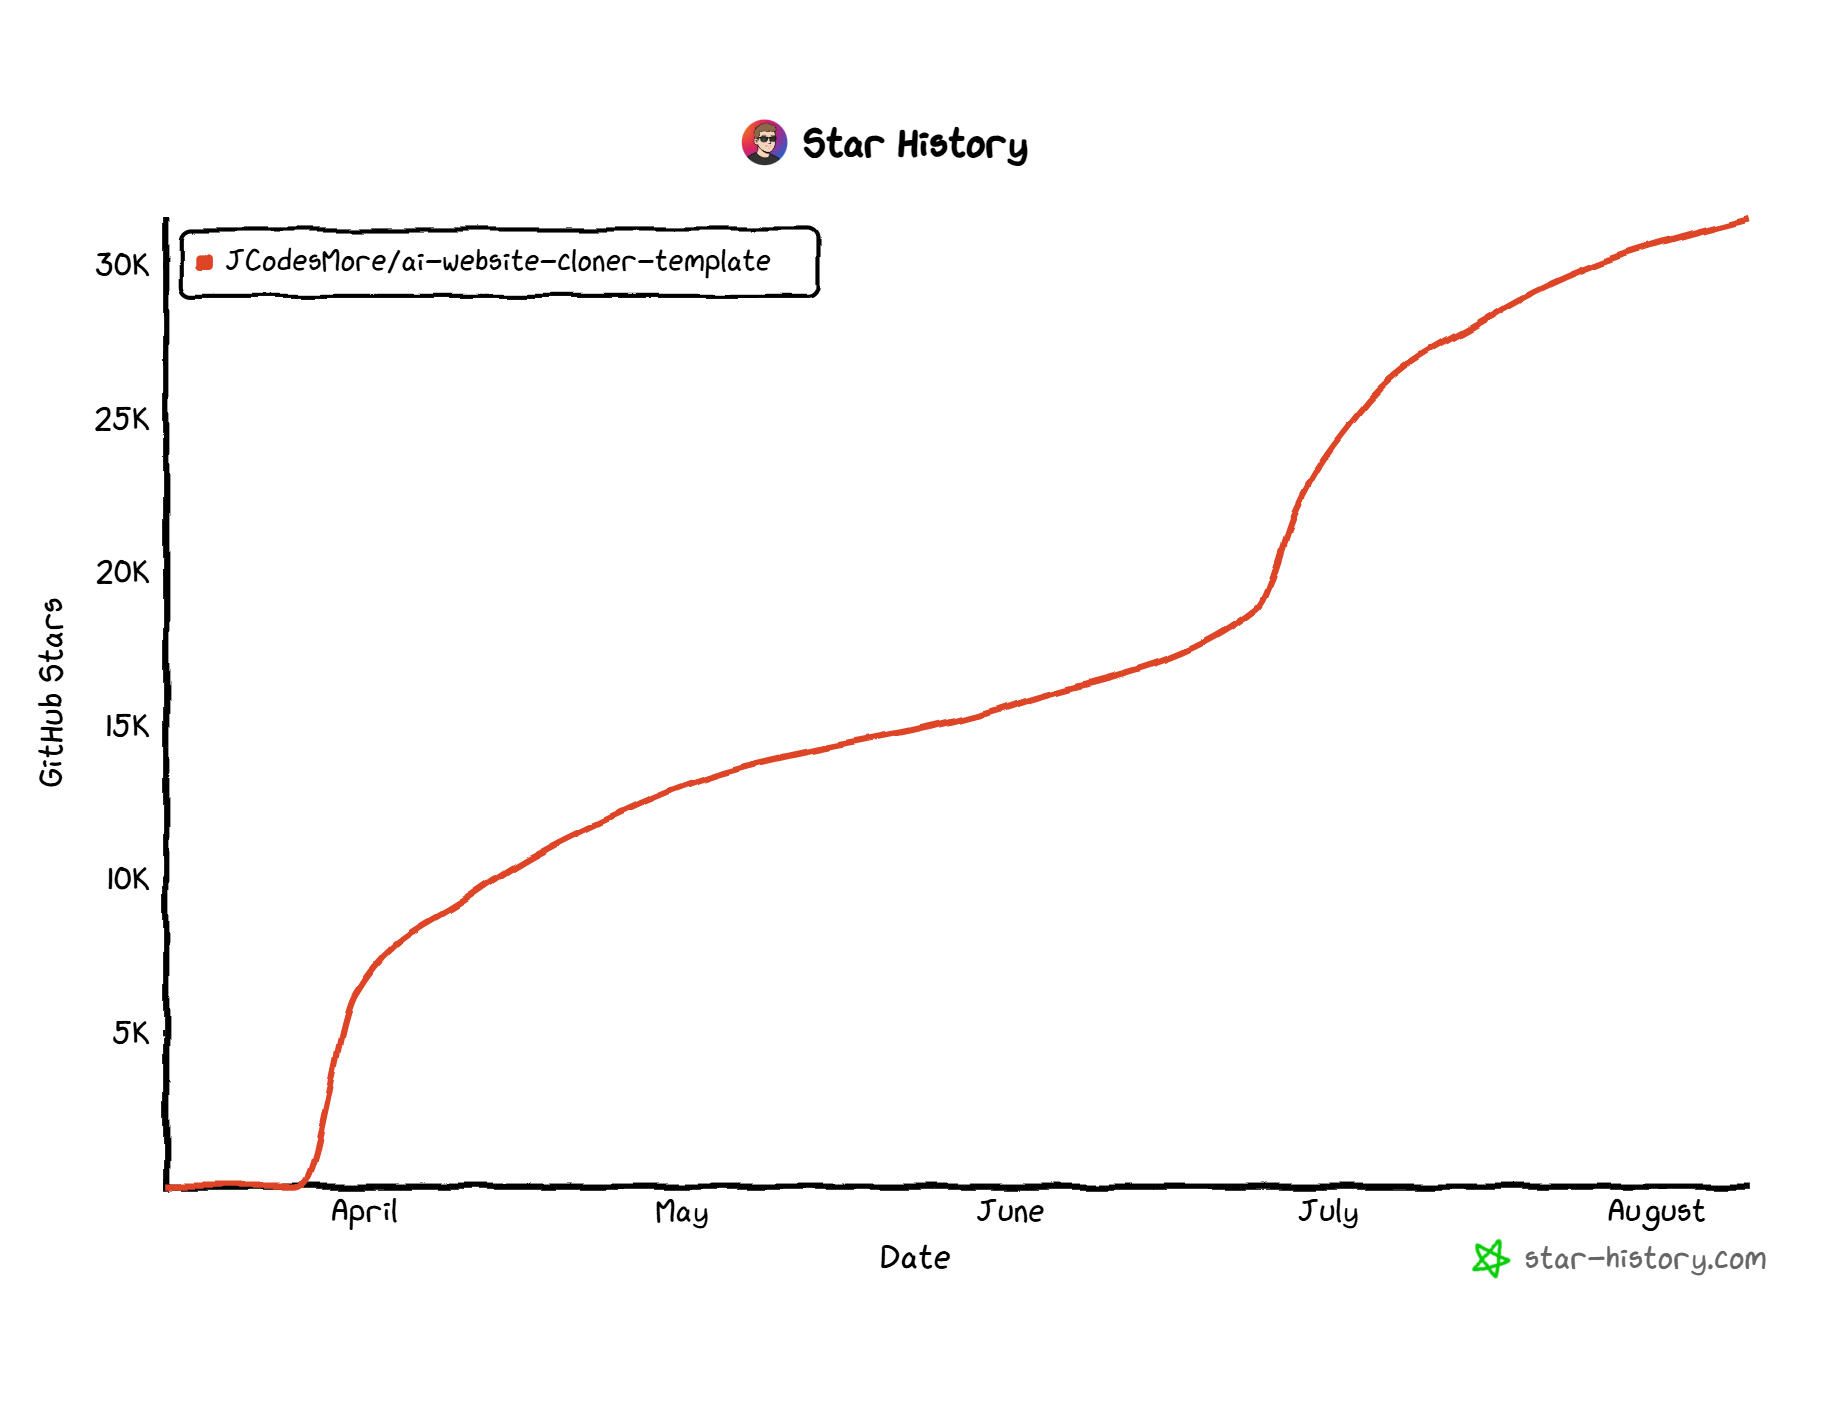
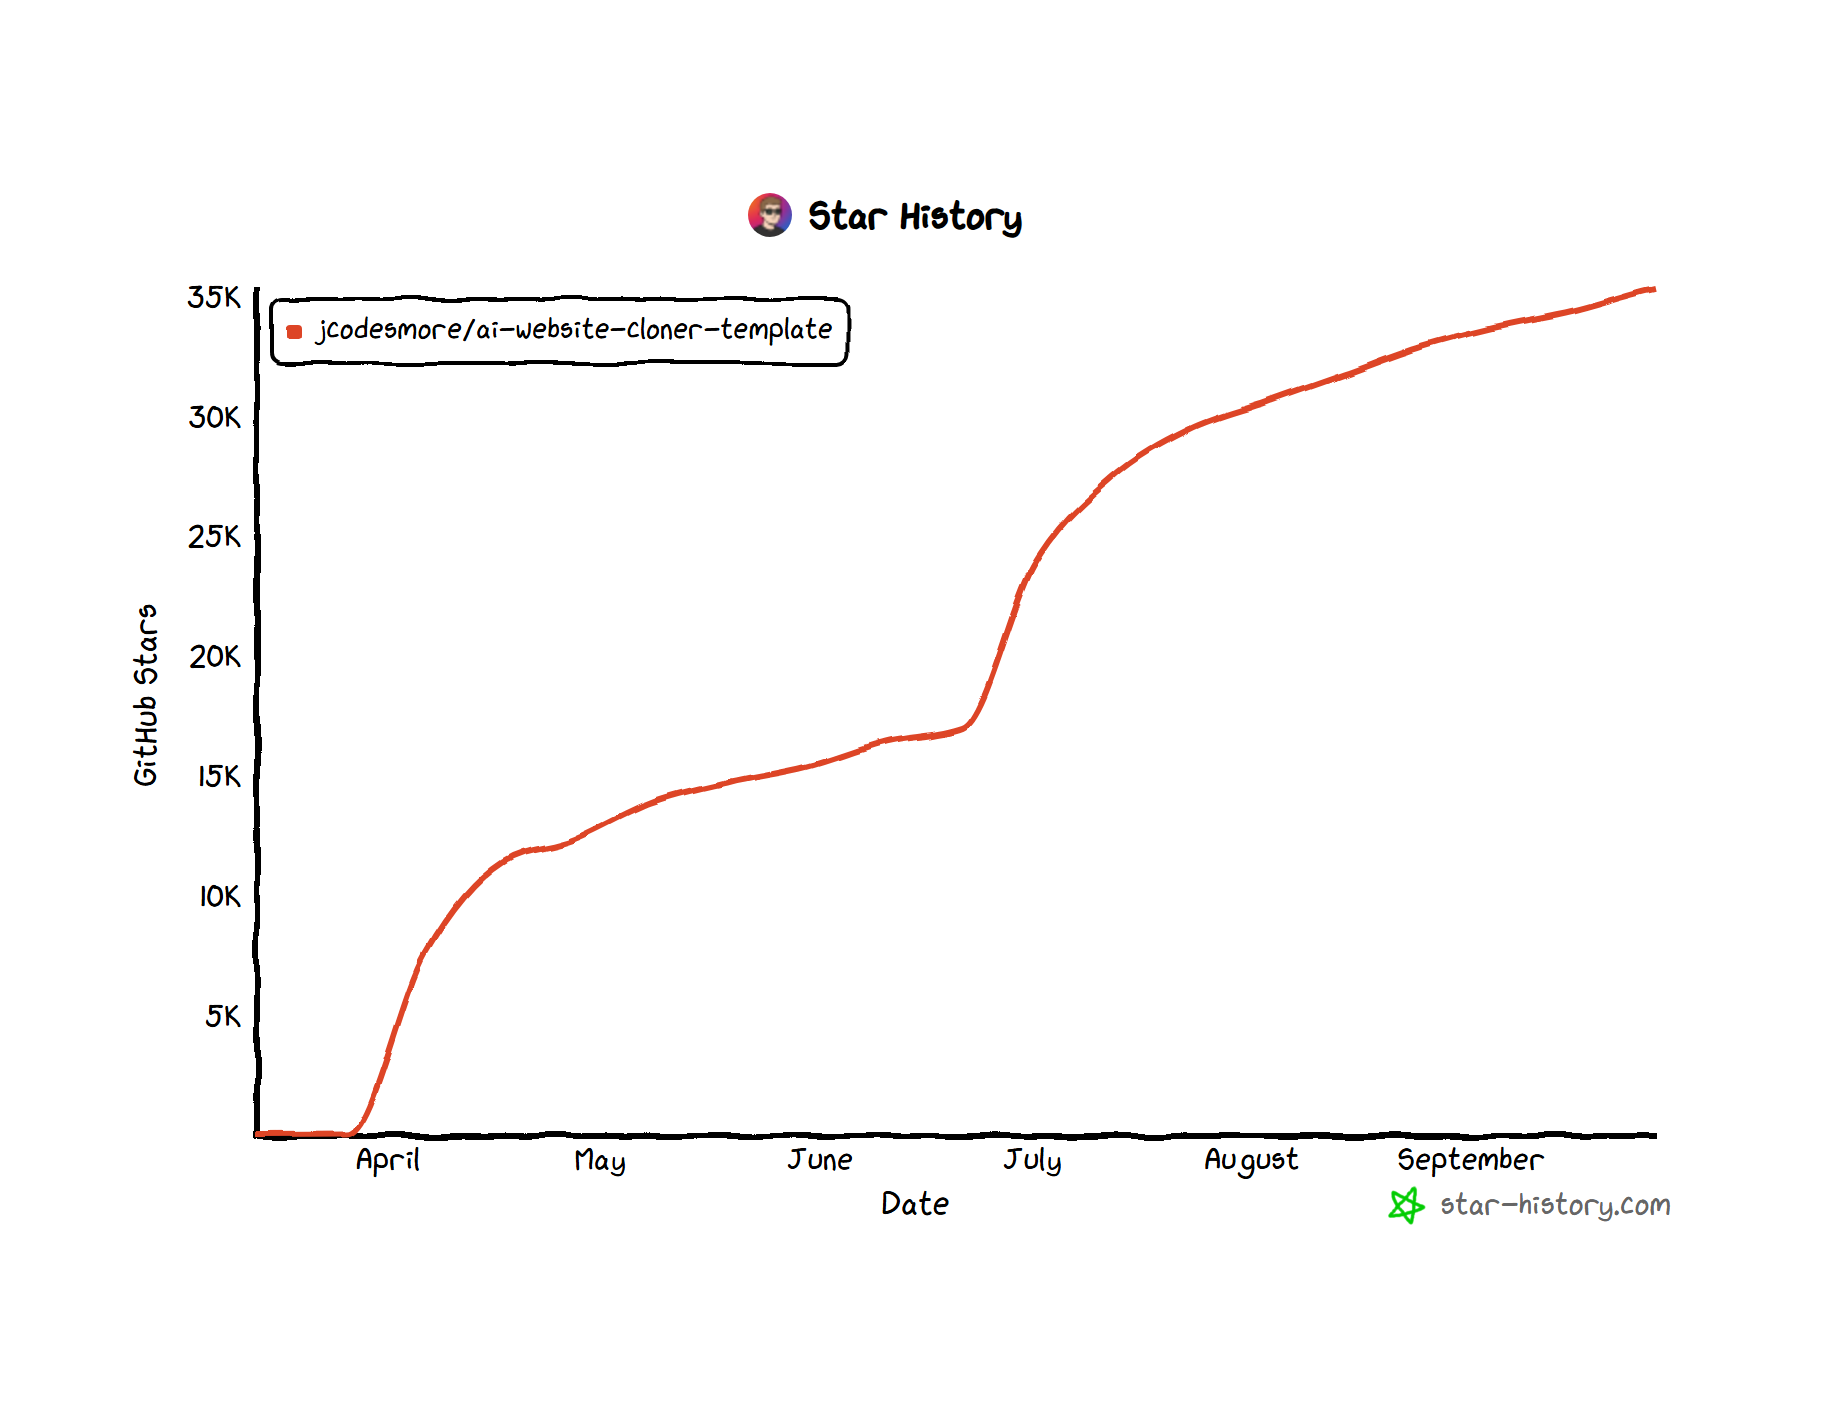
docs: recommend Opus 5.5 and refresh Star History chart

diff --git a/README.md b/README.md
@@ -6,7 +6,7 @@
 
 Give your AI coding agent a URL and watch it recreate the website as a clean Next.js app.
 
-**Best results with [Claude Code](https://docs.anthropic.com/en/docs/claude-code) + Opus 5. Also supports Codex, Cursor, and OpenCode.**
+**Best results with [Claude Code](https://docs.anthropic.com/en/docs/claude-code) + Opus 5.5. Also supports Codex, Cursor, and OpenCode.**
 
 [![Use this template](https://img.shields.io/badge/Use_this_template-Create_your_copy-2ea44f?style=for-the-badge&logo=github&logoColor=white)](https://github.com/JCodesMore/ai-website-cloner-template/generate) [![Discord](https://img.shields.io/badge/Join_the_community-Discord-5865F2?style=for-the-badge&logo=discord&logoColor=white)](https://discord.gg/hrTSX5yTpB)
 
@@ -60,7 +60,7 @@ Replace the URL with the website you want to recreate. Once it's built, ask your
 
 | Agent                                                         | Status                     |
 | ------------------------------------------------------------- | -------------------------- |
-| [Claude Code](https://docs.anthropic.com/en/docs/claude-code) | **Recommended** — Opus 5   |
+| [Claude Code](https://docs.anthropic.com/en/docs/claude-code) | **Recommended** — Opus 5.5 |
 | [Codex CLI](https://github.com/openai/codex)                  | Supported                  |
 | [OpenCode](https://opencode.ai/)                              | Supported                  |
 | [Cursor](https://cursor.com/)                                 | Supported                  |
@@ -147,9 +147,6 @@ docker compose up dev --build # run the app in dev mode on port 3001
 ## Agent Support
 
 The project keeps one portable Agent Skill at `.agents/skills/clone-website/`. Codex, Cursor, and OpenCode read it directly. Claude Code uses the small command bridge at `.claude/commands/clone-website.md` so `/clone-website` and its arguments continue to work without exposing a duplicate skill to the other agents.
-
-Edit the canonical skill directly. There are no generated platform copies or synchronization scripts.
-
 
 ## Star History
 

diff --git a/CHANGELOG.md b/CHANGELOG.md
@@ -7,6 +7,11 @@ and this project adheres to [Semantic Versioning](https://semver.org/spec/v2.0.0
 
 ## [Unreleased]
 
+### Changed
+- Recommend Claude Code with Opus 5.5 in the README
+- Refreshed the static Star History chart through September 2026
+- Removed a redundant note about editing the canonical skill from the README
+
 ### Security
 - Update Next.js and eslint-config-next to 16.3.5 with exact version pins, and refresh vulnerable transitive dependencies. Thanks to @atahan150 for the report in [#117](https://github.com/JCodesMore/ai-website-cloner-template/issues/117) and proposed fix in [#118](https://github.com/JCodesMore/ai-website-cloner-template/pull/118).
 
